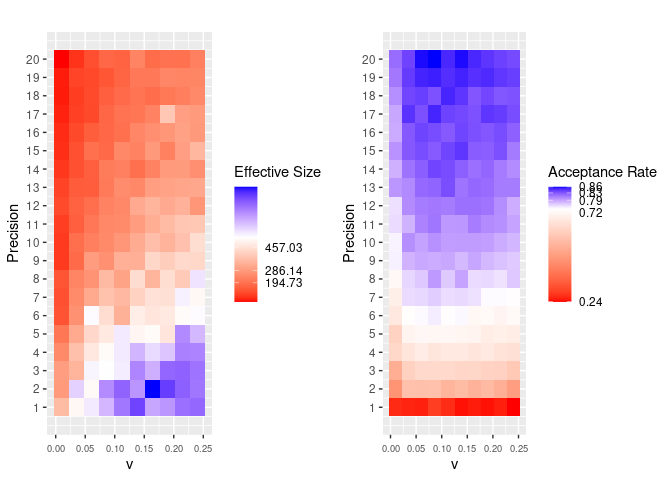
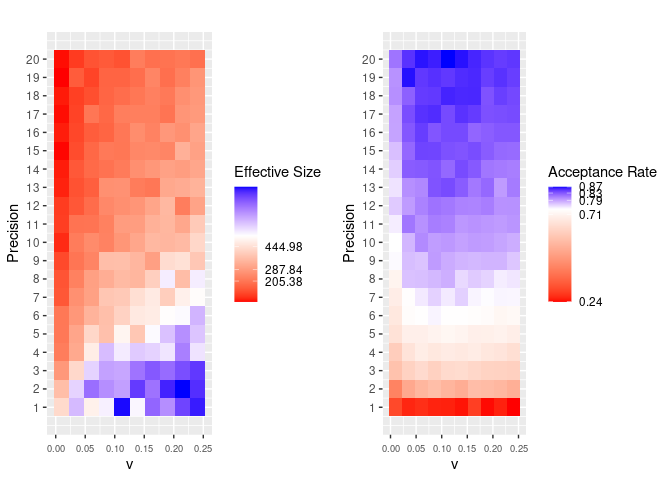
Results update

diff --git a/randomsamples.md b/randomsamples.md
@@ -322,8 +322,8 @@ Los resultados numéricos fueron:
 results_measure_diag1$Numerical
 ```
 
-    ##   Mean_Y1 Var_Y1   ESS_Y1 Mean_Y2 Var_Y2   ESS_Y2    Cov Length
-    ## 1  1.0601 1.3218 3991.776  1.9628 3.8862 3680.607 1.6279   3800
+    ##   Mean_Y1 Var_Y1   ESS_Y1 Mean_Y2 Var_Y2 ESS_Y2    Cov Length
+    ## 1  1.0465 1.5897 4127.574  1.9205   5.37   3800 2.0624   3800
 
 Los resultados analíticos fueron:
 
@@ -341,5 +341,5 @@ obtenidas son las siguientes:
 results_measure_diag1$Differences
 ```
 
-    ##   Mean_Y1 Var_Y1    ESS_Y1 Mean_Y2 Var_Y2   ESS_Y2    Cov Length
-    ## 1 -0.0601 0.4782 -191.7762  0.0372 1.9138 119.3932 0.5721      0
+    ##   Mean_Y1 Var_Y1    ESS_Y1 Mean_Y2 Var_Y2 ESS_Y2    Cov Length
+    ## 1 -0.0465 0.2103 -327.5737  0.0795   0.43      0 0.1376      0
